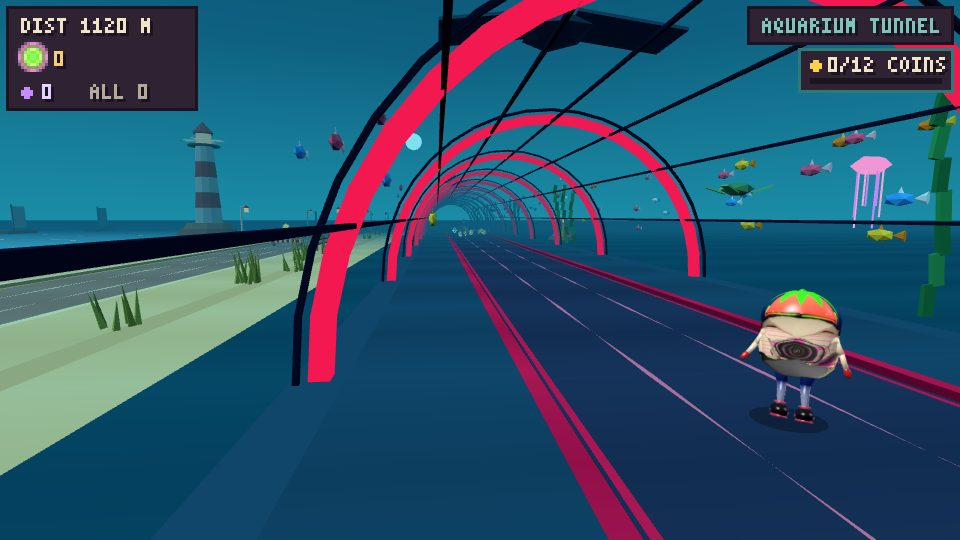
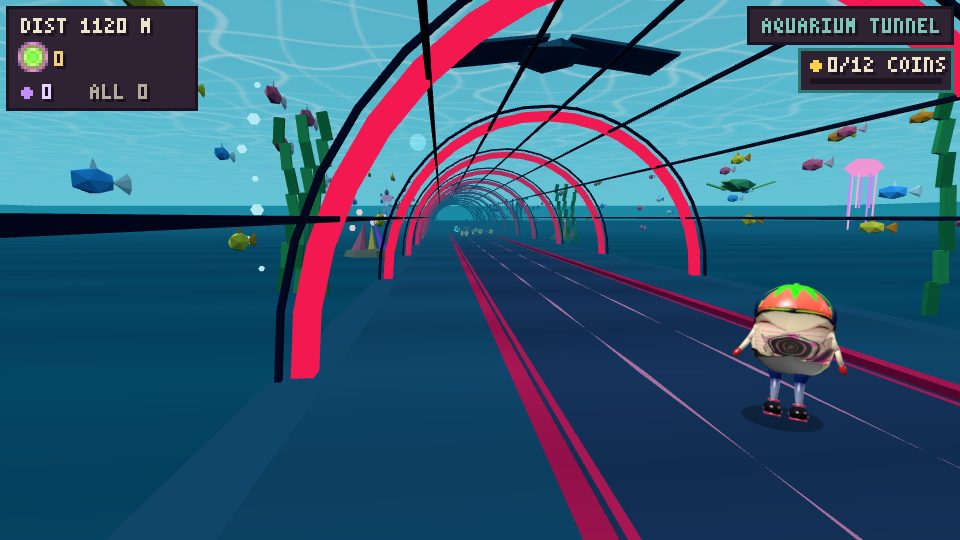
The aquarium tunnel dives below the level of the sea and of the land
- for a runner who took the tunnel the road dives 13 m over 200 m at the mouth, runs on the sea bed and comes back up over the last 200 m (World.dropAt/gradeAt, the descent system of Saint-Gilles; drawing only)
- under the sea the coast road and the land are not seen (Renderer3D hide, Road3D draws one road), water all round with plants and creatures on both sides
- the surface of the sea hangs above at the sea's own height: a caustic-lit ceiling that drifts, appears once above the camera
- manta and whale lowered under the surface; bigger pools for the aquarium props; tests (town 25, coins, avatar) and README

diff --git a/src3d/renderer3d.js b/src3d/renderer3d.js
@@ -49,6 +49,13 @@ class Renderer3D {
     ground.geometry = new THREE.PlaneGeometry(900, 450); ground.rotation.x = -Math.PI / 2; ground.position.set(0, 0, -225);
     this.groundPivot = new THREE.Group(); this.groundPivot.position.y = -0.03; this.groundPivot.add(ground); this.scene.add(this.groundPivot);
     const groundBack = new THREE.Mesh(new THREE.PlaneGeometry(900, 450), this.groundMat); groundBack.rotation.x = -Math.PI / 2; groundBack.position.set(0, -0.03, 225); this.scene.add(groundBack);
+    // the sea seen from under it (the aquarium tunnel dives below the level of the sea): its surface, a bright translucent ceiling that stays at the sea's own height while the road goes down (see draw)
+    { const cv = document.createElement('canvas'); cv.width = cv.height = 256; const c = cv.getContext('2d'); c.fillStyle = '#2fb0d2'; c.fillRect(0, 0, 256, 256); c.lineCap = 'round';        // the light of the surface: wavy bright lines in two directions (whole periods: the picture tiles)
+      for (let pass = 0; pass < 2; pass++) for (let k = 0; k < 7; k++) { c.strokeStyle = 'rgba(214,255,255,' + (0.35 + 0.1 * (k % 3)) + ')'; c.lineWidth = 2 + (k % 3); c.beginPath(); const base = 18 + k * 36, A = 7 + (k % 4) * 3, ph = k * 1.9 + pass, f = 1 + (k % 3);
+        for (let t = 0; t <= 256; t += 4) { const o = base + A * Math.sin(t / 256 * Math.PI * 2 * f + ph); if (pass) { t ? c.lineTo(o, t) : c.moveTo(o, t); } else { t ? c.lineTo(t, o) : c.moveTo(t, o); } } c.stroke(); }
+      const tex = new THREE.CanvasTexture(cv); tex.wrapS = tex.wrapT = THREE.RepeatWrapping; tex.repeat.set(24, 24); this.seaTex = tex;
+      this.seaTop = new THREE.Mesh(new THREE.PlaneGeometry(700, 700), new THREE.MeshBasicMaterial({ map: tex, transparent: true, opacity: 0.7, side: THREE.DoubleSide, depthWrite: false, fog: false })); }
+    this.seaTop.rotation.x = Math.PI / 2; this.seaTop.position.set(0, 20, -150); this.seaTop.visible = false; this.scene.add(this.seaTop);
     this._c = [new THREE.Color(), new THREE.Color(), new THREE.Color(), new THREE.Color(), new THREE.Color(), new THREE.Color()];   // scratch colours for blending
     this.atmoTo = ''; this.atmoQ = -1; this.atmoKey = ''; this.applyAtmosphere(this.baseId, 0);
 
@@ -71,7 +78,7 @@ class Renderer3D {
                   seaStrip: 36, cottageA: 24, cottageB: 24, cottageC: 24, cottageD: 24, seaFence: 70, tuft: 80, tuftBig: 50, driftwood: 30, dune: 30, cliff: 24, boat: 24, buoy: 40, crates: 30, lampSea: 40, lighthouse: 6, pier: 6, gateCoast: 8,   // the sunset coast
                   wallLow: 40, wallHigh: 40, wallLowB: 40, column: 60, columnLow: 60, columnTall: 20, archHalf: 24, lantern: 50, blocks: 40, ivy: 50, patchA: 40, patchB: 40, ruinTemple: 6, obelisk: 6, gateRuins: 8,   // the mossy ruins
                   garePlat: 20, stationFlankA: 12, stationFlankB: 12, platLamp: 20, gareHall: 3, tourMidi: 3,                  // the Gare du Midi
-                  coastClub: 6, coastDelphi: 6, portalGate: 14, coastCanal: 18, aquaRib: 18, aquaJelly: 10, aquaTurtle: 8, aquaWhale: 3, aquaShoal0: 16, aquaShoal1: 16, aquaShoal2: 16, aquaRay: 4, aquaKelp: 12, aquaCoral: 8, aquaBubbles: 8, coastTower0: 16, coastTower1: 16, coastTower2: 16, coastTower3: 16, coastRound: 6, coastPad: 4, coastParasol: 6, coastBike: 18, coastPark: 6, coastCourt: 4, coastPlay: 4,
+                  coastClub: 6, coastDelphi: 6, portalGate: 14, coastCanal: 18, aquaRib: 18, aquaJelly: 18, aquaTurtle: 14, aquaWhale: 4, aquaShoal0: 28, aquaShoal1: 28, aquaShoal2: 28, aquaRay: 6, aquaKelp: 28, aquaCoral: 22, aquaBubbles: 22, coastTower0: 16, coastTower1: 16, coastTower2: 16, coastTower3: 16, coastRound: 6, coastPad: 4, coastParasol: 6, coastBike: 18, coastPark: 6, coastCourt: 4, coastPlay: 4,
                   utQuayA: 30, utQuayB: 30, utQuayC: 30, utRowA: 16, utRowB: 16, utRowC: 16, utRowD: 16, utRowE: 16, utRowF: 16, utRowG: 16, utRowH: 16, utRowP1905: 10, utRowP1912: 10, utRowPChoor: 10, utRowPWhite: 10, utRowPShut: 10,   // Utrecht
                   utWetA: 14, utWetB: 14, utWetC: 14, utWetD: 14, utPlatane: 24, utPlataneB: 24, utBridge: 3, utDom: 3, utStationHall: 24, utPark: 24, utPlane: 30, utFootBridge: 4, utTunnel: 24,
                   neonHotel: 6, neonMoroccanLamp: 80, neonPendantLamp: 50, neonLanternPierced: 50, neonPillarLamp: 50, neonLightbox: 30 };                                                              // entrance markers where the biome changes
@@ -270,6 +277,9 @@ class Renderer3D {
     // descent: how far below the runner's level a point z (design units) lies (0 on flat road); the slope of the far ground follows the steepest slope seen from here to 150 m ahead
     const d0 = w.dropAt(p.z), dy = z => -(w.dropAt(z) - d0) * U.Z;
     this.groundPivot.rotation.x = -Math.atan(Math.max(w.gradeAt(p.z), w.gradeAt(p.z + 1500)));
+    // under the sea (inside the aquarium tunnel): the coast road beside it is not seen (hide = the side of the junction not drawn) and the surface of the sea hangs above, at the sea's own height
+    const hide = w.playerBand(p.z + 30, p.x).to === 'coastAqua' ? -1 : 0; this.road.hide = hide; this.hide = hide;
+    const sea = d0 * U.Z; this.seaTop.visible = !!hide && sea > 6; if (this.seaTop.visible) { this.seaTop.position.y = sea; this.seaTop.material.opacity = 0.7 * Math.min(1, (sea - 6) / 3); this.seaTex.offset.set(g.time * 0.012, g.time * 0.007); }      // (only once it is above the camera: before that the road is still near the surface)
     this.road.update(w, rz, Lref);
 
     // ---- scenery: slots of SEG_LEN, per road and side; the biome of each side is chosen by the blend at that spot
@@ -280,8 +290,9 @@ class Renderer3D {
     for (let i = i0; i <= i1; i++) {
       const zs = i * SL, sc = this.slotCache[((i % 20) + 20) % 20];
       if (sc.i !== i || sc.ver !== w.ver) { sc.i = i; sc.ver = w.ver; sc.mid = w.bandsAt((zs + SL / 2) / U.Z); sc.a = w.bandsAt(zs / U.Z); sc.b = w.bandsAt((zs + SL) / U.Z); }
-      const bands = sc.mid, two = bands.length > 1;
+      const bands = sc.mid, two = bands.length > 1 && !hide;
       for (let bi = 0; bi < bands.length; bi++) {
+        if (hide && bands[bi].side === hide) continue;
         const b = bands[bi], hwM = (b.hi - b.lo) / 2 * U.X;
         let c0 = null, c1 = null;
         for (let sg = -1; sg <= 1; sg += 2) {
@@ -336,7 +347,8 @@ class Renderer3D {
     for (const it of w.items) {
       const dz = it.z - p.z;
       if (it.taken || dz < -150 || dz > 1500) continue;         // design units: 15 m behind .. 150 m ahead
-      if (it.offV !== w.ver) { const bn = w.bandNear(it.z, it.x); it.off = bn.off; it.wet = bn.t > 0.5 && !!(this.envs[bn.to] && this.envs[bn.to].road.water); it.offV = w.ver; }   // road curve offset and water (a canal: hazards get their water look) at the item, cached until the track changes
+      if (it.offV !== w.ver) { const bn = w.bandNear(it.z, it.x); it.off = bn.off; it.sd = bn.side; it.wet = bn.t > 0.5 && !!(this.envs[bn.to] && this.envs[bn.to].road.water); it.offV = w.ver; }   // road curve offset and water (a canal: hazards get their water look) at the item, cached until the track changes
+      if (hide && it.sd === hide) continue;                      // (the other road of the junction is not seen from under the sea)
       const x = (it.x + it.off) * U.X - Lref, zr = -dz * U.Z;
       const iy = dy(it.z);                                     // on a descent the item sits on the sloping road
       if (it.kind === 'prop') { this.place(it.spr, x, WALK_Y + iy, zr, 0); continue; }

diff --git a/src3d/env_aqua.js b/src3d/env_aqua.js
@@ -24,8 +24,8 @@
     return Kit.merge(p);
   };
   // a manta ray gliding high above the tube: a dark flat body, two wings sloping down, a long thin tail, pale spots
-  const ray = () => Kit.merge([Kit.ico(1.3, 0, 10.5, 0, '#2d5876', { sx: 1.1, sy: 0.22, sz: 1.5 }), Kit.box(4.4, 0.12, 2.6, -2.6, 10.45, 0.3, '#2d5876', { rz: 0.12 }), Kit.box(4.4, 0.12, 2.6, 2.6, 10.45, 0.3, '#2d5876', { rz: -0.12 }),
-    Kit.cone(0.16, 5.5, 0, 10.5, 4.2, '#2d5876', { rx: Math.PI / 2, sx: 0.7 }), Kit.ico(0.22, -0.5, 10.7, -0.9, '#e8f6ff'), Kit.ico(0.22, 0.5, 10.7, -0.9, '#e8f6ff')]);
+  const ray = () => Kit.merge([Kit.ico(1.3, 0, 9.4, 0, '#2d5876', { sx: 1.1, sy: 0.22, sz: 1.5 }), Kit.box(4.4, 0.12, 2.6, -2.6, 9.35, 0.3, '#2d5876', { rz: 0.12 }), Kit.box(4.4, 0.12, 2.6, 2.6, 9.35, 0.3, '#2d5876', { rz: -0.12 }),
+    Kit.cone(0.16, 5.5, 0, 9.4, 4.2, '#2d5876', { rx: Math.PI / 2, sx: 0.7 }), Kit.ico(0.22, -0.5, 9.6, -0.9, '#e8f6ff'), Kit.ico(0.22, 0.5, 9.6, -0.9, '#e8f6ff')]);
   // kelp: tall green ribbons swaying (stacked leaning pieces); coral: branching cones in pink, orange and violet
   const kelp = () => { const p = []; for (let s = 0; s < 3; s++) for (let k = 0; k < 7; k++) p.push(Kit.box(0.34, 0.9, 0.12, s * 0.7 - 0.7 + Math.sin(k * 0.8 + s) * 0.25, k * 0.85, (s - 1) * 0.5, (s + k) % 2 ? '#2e9e5a' : '#1d7a46', { rz: Math.sin(k * 0.8 + s) * 0.18 })); return Kit.merge(p); };
   const coral = () => { const p = [Kit.cyl(1.5, 1.7, 0.4, 0, 0, 0, '#7a6a5a', { seg: 7 })]; ['#ff6a8a', '#ffb347', '#c05cff', '#ff6a8a'].forEach((c, k) => { const a = k * 1.7; p.push(Kit.cone(0.32, 1.5 + k * 0.35, Math.cos(a) * 0.7, 0.3, Math.sin(a) * 0.7, c, { seg: 5, rz: Math.cos(a) * 0.3, rx: Math.sin(a) * 0.3 }), Kit.ico(0.24, Math.cos(a) * 0.7 + Math.cos(a) * 0.4, 1.9 + k * 0.35, Math.sin(a) * 0.7 + Math.sin(a) * 0.4, '#ffe0e8', { glow: true })); }); return Kit.merge(p); };
@@ -39,27 +39,30 @@
     for (const [sx, sz] of [[-1, -0.7], [1, -0.7], [-1, 0.9], [1, 0.9]]) p.push(Kit.box(1.3, 0.1, 0.55, sx * 1.15, 4.3, sz, '#7bc46a', { rz: sx * 0.35, ry: sx * (sz < 0 ? 0.5 : -0.4) }));
     return Kit.merge(p); };
   // a whale shark gliding overhead, the great animal of an aquarium tunnel: a long slate body with pale spots, a dorsal fin and a tall tail
-  const whale = () => { const p = [Kit.ico(1.7, 0, 12, 0, '#3b5d7a', { sx: 1.0, sy: 0.85, sz: 4.4 }), Kit.ico(1.05, 0, 11.7, 0, '#9fc4d8', { sx: 0.9, sy: 0.5, sz: 4.2 }), Kit.cone(0.9, 2.2, 0, 13.3, 1.2, '#3b5d7a', { sx: 0.35 }), Kit.cone(1.0, 3.2, 0, 11.3, 7.7, '#3b5d7a', { rx: Math.PI / 2, sx: 0.3 }), Kit.cone(0.7, 1.6, -1.3, 11.3, -6.4, '#3b5d7a', { rz: 0.7 })];
-    for (let k = 0; k < 14; k++) { const r = q => rnd(k * 7, q); p.push(Kit.ico(0.17 + r(1) * 0.12, (r(2) - 0.5) * 2.2, 12.5 + r(3) * 0.9, (r(4) - 0.5) * 9, '#e8f6ff')); }
+  const whale = () => { const H = 10.3, p = [Kit.ico(1.7, 0, H, 0, '#3b5d7a', { sx: 1.0, sy: 0.85, sz: 4.4 }), Kit.ico(1.05, 0, H - 0.3, 0, '#9fc4d8', { sx: 0.9, sy: 0.5, sz: 4.2 }), Kit.cone(0.9, 2.2, 0, H + 1.3, 1.2, '#3b5d7a', { sx: 0.35 }), Kit.cone(1.0, 3.2, 0, H - 0.7, 7.7, '#3b5d7a', { rx: Math.PI / 2, sx: 0.3 }), Kit.cone(0.7, 1.6, -1.3, H - 0.7, -6.4, '#3b5d7a', { rz: 0.7 })];
+    for (let k = 0; k < 14; k++) { const r = q => rnd(k * 7, q); p.push(Kit.ico(0.17 + r(1) * 0.12, (r(2) - 0.5) * 2.2, H + 0.5 + r(3) * 0.9, (r(4) - 0.5) * 9, '#e8f6ff')); }
     return Kit.merge(p); };
   const PROPS = { aquaJelly: jelly, aquaTurtle: turtle, aquaWhale: whale, aquaRib: rib, aquaShoal0: shoal(0), aquaShoal1: shoal(1), aquaShoal2: shoal(2), aquaRay: ray, aquaKelp: kelp, aquaCoral: coral, aquaBubbles: bubbles };
   // every slot: a rib across the road (x = 0: it is drawn once, with the road's own lean); outside (the right side of the island road), kelp, coral, bubbles and a shoal of fish; on the inner side, towards the coast road, a few fish (nothing tall: the coast road's runner must not have it in the way)
   const layout = (i, rnd) => {
     const out = [{ prop: 'aquaRib', x: 0, dist: 6 }], k = i * 2 + 1, r = n => rnd(k, n);
-    out.push({ prop: 'aquaShoal' + mod(i, 3), x: 10 + r(1) * 10, dist: 6, live: true });
-    if (mod(i, 3) === 0) out.push({ prop: 'aquaKelp', x: 8.2 + r(2) * 2.5, dist: 2 + r(3) * 8 });
-    if (mod(i, 4) === 1) out.push({ prop: 'aquaCoral', x: 8.6 + r(4) * 2, dist: 3 + r(5) * 6 });
-    if (mod(i, 5) === 2) out.push({ prop: 'aquaBubbles', x: 9 + r(6) * 3, dist: 4 + r(7) * 4 });
     if (mod(i, 23) === 11) out.push({ prop: 'aquaWhale', x: 0, dist: 6, live: true });                                           // (the creatures drift a little: `live`, Renderer3D)
     else if (mod(i, 7) === 3) out.push({ prop: 'aquaRay', x: 0, dist: 6, live: true });
-    if (mod(i, 6) === 4) out.push({ prop: 'aquaJelly', x: 8.5 + r(8) * 9, dist: 3 + r(9) * 6, live: true });
-    if (mod(i, 9) === 5) out.push({ prop: 'aquaTurtle', x: 9 + r(10) * 7, dist: 6, live: true });
-    if (mod(i, 3) === 1) out.push({ prop: 'aquaShoal' + mod(i + 1, 3), x: -7.4, dist: 6, live: true });
+    // both sides: under the sea the other road of the junction is not seen (Renderer3D `hide`), so the water is all round; seen from the coast road (the other side of the junction) only the fish of the inner side are allowed
+    for (const sg of [1, -1]) {
+      const q = n => rnd(k + (sg < 0 ? 777 : 0), n), s = n => rnd(k + (sg < 0 ? 777 : 0), n + 20);
+      out.push({ prop: 'aquaShoal' + mod(i + (sg < 0 ? 1 : 0), 3), x: sg * (sg < 0 ? 7.4 + q(1) * 6 : 10 + q(1) * 10), dist: 6, live: true });
+      if (sg > 0 || mod(i, 4) === 2) { if (mod(i, 3) === (sg > 0 ? 0 : 1)) out.push({ prop: 'aquaKelp', x: sg * (8.2 + q(2) * 2.5), dist: 2 + q(3) * 8 }); }
+      if (mod(i, 4) === (sg > 0 ? 1 : 3)) out.push({ prop: 'aquaCoral', x: sg * (8.6 + q(4) * 2), dist: 3 + q(5) * 6 });
+      if (mod(i, 5) === (sg > 0 ? 2 : 4)) out.push({ prop: 'aquaBubbles', x: sg * (9 + q(6) * 3), dist: 4 + q(7) * 4 });
+      if (mod(i, 6) === (sg > 0 ? 4 : 1)) out.push({ prop: 'aquaJelly', x: sg * (8.5 + q(8) * 9), dist: 3 + q(9) * 6, live: true });
+      if (mod(i, 9) === (sg > 0 ? 5 : 8)) out.push({ prop: 'aquaTurtle', x: sg * (9 + q(10) * 7), dist: 6, live: true });
+    }
     return out;
   };
   // the sea seen from inside: a deep teal that swallows the distance (a short fog), light from above
   ENV3D.coastAqua = Object.assign({}, ENV3D.coastBlue, {
-    name: 'AQUARIUM TUNNEL', props: Object.assign({}, ENV3D.coastBlue.props, PROPS), layout, entrance: null, innerOk: new Set(['aquaShoal0', 'aquaShoal1', 'aquaShoal2']),
+    name: 'AQUARIUM TUNNEL', props: Object.assign({}, ENV3D.coastBlue.props, PROPS), layout, entrance: null, innerOk: new Set(['aquaShoal0', 'aquaShoal1', 'aquaShoal2', 'aquaJelly', 'aquaTurtle', 'aquaBubbles', 'aquaCoral']),
     sky: { top: '#06304f', mid: '#0c5a7c', horizon: '#1b8ca6' }, sunDisc: { color: '#7fe0f0', size: 2 }, sunPos: [-10, 40], sunGlow: 0, fog: { color: '#0d5a7a', near: 14, far: 100 },
     hemi: { sky: '#8fe6ff', ground: '#0a3a58', intensity: 1.7 }, sun: { color: '#c4f6ff', intensity: 1.8, position: [-3, 10, -4] }, groundFar: '#0a4c66',
     road: { asphalt: ['#27395c', '#223253'], mark: '#ff7aa0', edge: '#ff1a55', curb: ['#ff1a55', '#e0124a'], curbFace: '#9c0c38', walk: ['#1d4d6c', '#194560'], court: '#1d4d6c', verge: ['#0c4f68', '#0a4760'] },

diff --git a/tests/qa3d_town.js b/tests/qa3d_town.js
@@ -89,6 +89,29 @@ const res = []; const T = (n, ok, i = '') => { res.push(ok); console.log((ok ? '
   });
   T('the look under the sea starts and ends at the mouths of the tunnel: on the right road the atmosphere goes ' + AQ.right.seq + ' (the tunnel look ' + AQ.right.at.coastAqua + ' units after the junction line\'s end, the island ' + AQ.right.at.coastTown + '), with ' + AQ.right.splashes + ' splashes of light and never a dip back to the city look from the junction to the merge (lowest blend ' + AQ.right.minT + '); the coast road stays the coast (' + AQ.left.seq + ', ' + AQ.left.splashes + ' splashes); the HUD plate in the tunnel reads ' + AQ.env.label,
     /^coast>coastAqua>coastTown$/.test(AQ.right.seq) && Math.abs(AQ.right.at.coastAqua + 0) <= 45 && Math.abs(AQ.right.at.coastTown - 7000) <= 45 && AQ.right.splashes === 2 && AQ.right.minT >= 0.9 && AQ.left.seq === 'coast' && AQ.left.splashes === 0 && AQ.left.minT >= 0.9 && AQ.env.ok && AQ.env.label === 'AQUARIUM TUNNEL', JSON.stringify(AQ.right));
+  // ---- below the level of the sea and of the land: the road of the tunnel dives, runs on the sea bed and comes back up (World.dropAt: only for a runner who took it); under the sea the coast road is not seen and the surface hangs above
+  const DV = await pg.evaluate(() => {
+    const out = {}; const dip = choice => {
+      const w = new World(TRACK); w.extend(30000); const F = w.pieces.find(p => p.type === 'fork' && p.fork.tube); if (choice) F.choice = choice; const d = z => w.dropAt(z) - w.dropAt(F.fe - 100), tb = F.fork.tube; let maxSlope = 0, neg = 0, pos = 0;
+      for (let z = F.fe - 200; z < F.fe + tb.len + 200; z += 10) { const sl = (d(z + 10) - d(z)) / 10; maxSlope = Math.max(maxSlope, Math.abs(sl)); if (sl < -1e-6) neg++; if (sl > 1e-6) pos++; }
+      return { mouth: +d(F.fe + 1).toFixed(1), mid: +d(F.fe + 3500).toFixed(1), end: +d(F.fe + tb.len - 1).toFixed(1), after: +d(F.fe + tb.len + 200).toFixed(1), merge: +d(F.z1 + 500).toFixed(1), half: +d(F.fe + tb.ramp / 2).toFixed(1), maxSlope: +maxSlope.toFixed(3), neg, pos, gDown: +w.gradeAt(F.fe + 1000).toFixed(3), gUp: +w.gradeAt(F.fe + tb.len - 1000).toFixed(3), gMid: +w.gradeAt(F.fe + 3500).toFixed(3), depth: tb.depth, ramp: tb.ramp };
+    };
+    out.right = dip('right'); out.left = dip('left'); out.undecided = dip(null);
+    const g = __wf, r = g.r; r.renderer.render = () => {}; g.die = () => {};
+    const at = (side, u) => { g.start(); g.world.extend(30000); g.world.items = []; const F = g.world.pieces.find(p => p.type === 'fork' && p.fork.tube); g.world.commit(F, side); g.state = 'play'; g.p.z = F.fe + u; g.p.x = side === 'right' ? 2.4 : -2.4; g.p.speed = 300; g.world.extend(g.p.z); g.scene = null; g.fadeIn = 0;
+      const a = g.world.playerBand(g.p.z + 30, g.p.x); g.bgTo = a.to; g.bgT = a.t; for (let i = 0; i < 4; i++) { g.time += 1 / 60; r.draw(g); }
+      const E = r.road.edge; let two = 0; for (let i = 0; i < r.road.N; i++) two += E.two[i] ? 1 : 0;
+      const side2 = (n) => r.props[n].filter(o => o.visible), rv = side2('aquaRib'), rx = rv.length ? rv.reduce((a2, o) => a2 + o.position.x, 0) / rv.length : 0, left = ['aquaShoal0', 'aquaShoal1', 'aquaShoal2', 'aquaKelp', 'aquaCoral', 'aquaJelly', 'aquaTurtle', 'aquaBubbles'].reduce((n, k) => n + side2(k).filter(o => o.position.x < rx - 5).length, 0);      // (on the coast side of the road: x less than the ribs' centre line less 5 m)
+      return { sea: r.seaTop.visible, seaY: +r.seaTop.position.y.toFixed(1), hide: r.road.hide, two, ribs: r.propUsed.aquaRib, left, dropped: r.dropped, d0: +(g.world.dropAt(g.p.z) - g.world.dropAt(F.fe - 100)).toFixed(0), to: g.bgTo };
+    };
+    out.deep = at('right', 3500); out.ramp = at('right', 1100); out.shallow = at('right', 150); out.island = at('right', 7300); out.coastRoad = at('left', 3500);
+    return out;
+  });
+  const dvOk = D => D.mouth === 0 && D.mid === D.depth && D.end === 0 && D.after === 0 && D.merge === 0;
+  T('below the level of the sea and of the land: for a runner who took the tunnel the road dives ' + DV.right.depth / 10 + ' m over ' + DV.right.ramp / 10 + ' m from the mouth (0 at the mouth, ' + DV.right.half + ' units at half the ramp, ' + DV.right.mid + ' on the sea bed), comes back up over the last ' + DV.right.ramp / 10 + ' m and is level again on the island (' + DV.right.after + ', ' + DV.right.merge + ' after the merge); the slope stays gentle (max ' + DV.right.maxSlope + ', down ' + DV.right.gDown + ', flat ' + DV.right.gMid + ', up ' + DV.right.gUp + ' per unit of run); the coast road (left) and a junction not yet chosen do not move at all (' + DV.left.mid + ' / ' + DV.undecided.mid + ')',
+    dvOk(DV.right) && DV.right.depth === 130 && DV.right.ramp === 2000 && DV.right.half > 40 && DV.right.half < 90 && DV.right.maxSlope > 0.05 && DV.right.maxSlope < 0.12 && DV.right.neg > 100 && DV.right.pos > 100 && DV.right.gDown > 0.05 && DV.right.gUp < -0.05 && DV.right.gMid === 0 && ['mouth', 'mid', 'end', 'after', 'merge'].every(k => DV.left[k] === 0 && DV.undecided[k] === 0 && DV.left.maxSlope === 0), JSON.stringify([DV.right, DV.left]));
+  T('under the sea the coast road is not seen and the surface of the sea hangs above: in the tunnel the road is drawn as ONE road (' + DV.deep.two + ' two-road sections), the surface of the sea is at the sea\'s own height ' + DV.deep.seaY + ' m above the road (' + DV.deep.d0 + ' units down) with ' + DV.deep.left + ' creatures and plants on the coast side as well, ' + DV.deep.ribs + ' ribs; not yet above the camera near the mouth (' + DV.shallow.sea + '), on the ramp it rises (' + DV.ramp.seaY + ' m, shown: ' + DV.ramp.sea + '); gone on the island (' + DV.island.sea + ', two roads again: ' + DV.island.two + '), and a runner on the coast road sees the tunnel as it was (no surface: ' + DV.coastRoad.sea + ', hide ' + DV.coastRoad.hide + ')',
+    DV.deep.sea && DV.deep.hide === -1 && DV.deep.two === 0 && Math.abs(DV.deep.seaY - 13) < 0.2 && DV.deep.ribs >= 8 && DV.deep.left >= 3 && DV.deep.dropped === 0 && !DV.shallow.sea && DV.ramp.sea === DV.ramp.seaY > 6 && !DV.island.sea && DV.island.hide === 0 && DV.island.two > 0 && !DV.coastRoad.sea && DV.coastRoad.hide === 0 && DV.coastRoad.two > 0 && DV.deep.to === 'coastAqua', JSON.stringify([DV.deep, DV.ramp, DV.island, DV.coastRoad]));
   T('the aquarium environment is complete: a deep teal fog that swallows the distance (far ' + AQ.env.fogFar + ' m), its props (rib, three shoals, manta ray, kelp, coral, bubbles); a rib is a half ring ' + AQ.rib.w + ' m wide and ' + AQ.rib.h + ' m high of ' + AQ.rib.glow + ' pink-red unlit pieces, with the dark lines of the vault (' + AQ.rib.lit + ' triangles, ' + AQ.rib.lenZ + ' m along the road)',
     AQ.env.fogFar <= 120 && AQ.env.props && AQ.rib.w >= 13 && AQ.rib.w <= 15.5 && AQ.rib.h >= 6.5 && AQ.rib.glow >= 200 && AQ.rib.lit > 100 && AQ.rib.lenZ >= 11.5, JSON.stringify(AQ.rib));
 

diff --git a/src/track.js b/src/track.js
@@ -177,11 +177,11 @@ const TRACK = {
     gate4:  { zone: 440, branchLen: 1300, merge: 360, blend: 40, left: { route: 'neonBranch', sign: 'signNeon' }, right: { route: 'forest', sign: 'signForest' } },
     gate3B: { zone: 480, branchLen: 1500, merge: 380, blend: 40, left: { route: 'coastRunB', sign: 'signCoast' }, right: { route: 'neonBranchB', sign: 'signNeon' } },
     gate4B: { zone: 480, branchLen: 1500, merge: 380, blend: 40, left: { route: 'ruinsRunB', sign: 'signRuins' }, right: { route: 'detourB', sign: 'signMarket' } },
-    // the island junction, in the four lights (the passage to the island is optional: LEFT the coast goes on, RIGHT the way to the island, which goes UNDER THE SEA: `tube`, from the user's sketch of an aquarium-style trajectory: the right road keeps the coast's look (`pre`) while the two roads part, then runs 700 m through the glass tunnel (`biome`, ENV3D.coastAqua: long enough to play and enjoy it, about 25 s), then comes up on the 300 m island, the only place of the afro-Mediterranean music; `hold`: the beach look goes through the junction, it does not fade in)
-    gateIslandSunset: { zone: 480, branchLen: 10000, merge: 380, blend: 40, hold: true, tube: { pre: 'coast', biome: 'coastAqua', len: 7000 }, left: { route: 'coastWalkSunset', sign: 'signCoast' }, right: { route: 'islandSunset', sign: 'signIsland' } },
-    gateIslandMidday: { zone: 480, branchLen: 10000, merge: 380, blend: 40, hold: true, tube: { pre: 'coastNoon', biome: 'coastAqua', len: 7000 }, left: { route: 'coastWalkMidday', sign: 'signCoast' }, right: { route: 'islandMidday', sign: 'signIsland' } },
-    gateIslandBlue: { zone: 480, branchLen: 10000, merge: 380, blend: 40, hold: true, tube: { pre: 'coastBlue', biome: 'coastAqua', len: 7000 }, left: { route: 'coastWalkBlue', sign: 'signCoast' }, right: { route: 'islandBlue', sign: 'signIsland' } },
-    gateIslandMorning: { zone: 480, branchLen: 10000, merge: 380, blend: 40, hold: true, tube: { pre: 'coastMorning', biome: 'coastAqua', len: 7000 }, left: { route: 'coastWalkMorning', sign: 'signCoast' }, right: { route: 'islandMorning', sign: 'signIsland' } },
+    // the island junction, in the four lights (the passage to the island is optional: LEFT the coast goes on, RIGHT the way to the island, which goes UNDER THE SEA: `tube`, from the user's sketch of an aquarium-style trajectory: the right road keeps the coast's look (`pre`) while the two roads part, then runs 700 m through the glass tunnel (`biome`, ENV3D.coastAqua: long enough to play and enjoy it, about 25 s), BELOW THE LEVEL OF THE SEA AND OF THE LAND (for a runner who took it: the road dives `depth` 13 m over `ramp` 200 m at the mouth, runs on the sea bed and comes up again over the last 200 m, World.dropAt; the coast road is not seen from under the sea), then comes up on the 300 m island, the only place of the afro-Mediterranean music; `hold`: the beach look goes through the junction, it does not fade in)
+    gateIslandSunset: { zone: 480, branchLen: 10000, merge: 380, blend: 40, hold: true, tube: { pre: 'coast', biome: 'coastAqua', len: 7000, depth: 130, ramp: 2000 }, left: { route: 'coastWalkSunset', sign: 'signCoast' }, right: { route: 'islandSunset', sign: 'signIsland' } },
+    gateIslandMidday: { zone: 480, branchLen: 10000, merge: 380, blend: 40, hold: true, tube: { pre: 'coastNoon', biome: 'coastAqua', len: 7000, depth: 130, ramp: 2000 }, left: { route: 'coastWalkMidday', sign: 'signCoast' }, right: { route: 'islandMidday', sign: 'signIsland' } },
+    gateIslandBlue: { zone: 480, branchLen: 10000, merge: 380, blend: 40, hold: true, tube: { pre: 'coastBlue', biome: 'coastAqua', len: 7000, depth: 130, ramp: 2000 }, left: { route: 'coastWalkBlue', sign: 'signCoast' }, right: { route: 'islandBlue', sign: 'signIsland' } },
+    gateIslandMorning: { zone: 480, branchLen: 10000, merge: 380, blend: 40, hold: true, tube: { pre: 'coastMorning', biome: 'coastAqua', len: 7000, depth: 130, ramp: 2000 }, left: { route: 'coastWalkMorning', sign: 'signCoast' }, right: { route: 'islandMorning', sign: 'signIsland' } },
     // THE JUNCTIONS OF THE CIRCUIT. The coast and the neon quarter are zones of their own now (Neon > Beach > Saint-Gilles > Utrecht), so the pairs the junction of Saint-Gilles takes (picks.A) offer only the
     // detours that stay in its neighbourhood: forest, market, ruins. The pairs above that lead to the coast or the neon quarter (gate3, gate4, gate2, gate3B, gate4B) are no longer on the circuit.
     gate5: { zone: 440, branchLen: 1300, merge: 360, blend: 40, left: { route: 'ruinsRun', sign: 'signRuins' }, right: { route: 'detourB', sign: 'signMarket' } },

diff --git a/tests/qa3d_avatar.js b/tests/qa3d_avatar.js
@@ -53,7 +53,7 @@ const res = []; const T = (n, ok, i = '') => { res.push(ok); console.log((ok ? '
     play(1800); const tex2 = r.renderer.info.memory.textures;                              // a second 30 s: nothing new may appear
     return { state: g.state, tex: [tex1, tex2], kids: [kids0, r.scene.children.length], own: [own0, rn.pivot.children.length], sameCards: geoIds0 === ['back', 'side'].map(k => rn.cards[k].geometry.uuid).join() };   // (geometry counts also grow as new scenery is first drawn: that is the GPU upload of props, not the avatar)
   });
-  T('no leaks: the uploaded textures stop growing (<= 24: trees, the two avatar views, three neon atlases, the tram signs, the sun glow, the blossom tree, the board rear, the board trail gradient, the neon shop windows, the fourth neon set, the mixed flowers, the streak gradient of the dash, the Utrecht atlas, its brick paving and its water, the foam of the surfboard, the coast atlas, its neon name board, the dolphin sign of Club Delphi, the Stargate picture, the sunburst of the parasols), the 2 cards and the scene children stay constant over 60 s of play', L.state === 'play' && L.tex[0] >= 1 && L.tex[0] <= 24 && L.tex[0] === L.tex[1] && L.kids[0] === L.kids[1] && L.own[0] === 2 && L.own[1] === 2 && L.sameCards, JSON.stringify(L));
+  T('no leaks: the uploaded textures stop growing (<= 25: trees, the two avatar views, three neon atlases, the tram signs, the sun glow, the blossom tree, the board rear, the board trail gradient, the neon shop windows, the fourth neon set, the mixed flowers, the streak gradient of the dash, the Utrecht atlas, its brick paving and its water, the foam of the surfboard, the coast atlas, its neon name board, the dolphin sign of Club Delphi, the Stargate picture, the sunburst of the parasols, the light of the surface of the sea seen from the aquarium tunnel), the 2 cards and the scene children stay constant over 60 s of play', L.state === 'play' && L.tex[0] >= 1 && L.tex[0] <= 25 && L.tex[0] === L.tex[1] && L.kids[0] === L.kids[1] && L.own[0] === 2 && L.own[1] === 2 && L.sameCards, JSON.stringify(L));
   T('no JS errors in the default avatar session', pg.errs.length === 0, pg.errs.slice(0, 2).join('|'));
   await pg.context().close();                                   // close it: a page left running keeps drawing and slows every page opened after it (software GL)
 

diff --git a/src/world.js b/src/world.js
@@ -183,13 +183,20 @@ class World {
   dropAt(z) {
     let d = 0;
     for (const P of this.pieces) {
+      if (P.type === 'fork') { if (P.fork.tube && P.choice === 'right') d += this.tubeDip(P, z); continue; }                  // the way to the island: a runner who took it dives below the sea (and comes back up)
       if (P.type !== 'seg' || !P.seg.grade || z <= P.z0) continue;
       const tab = P.dropTab || (P.dropTab = this.dropTable(P)), k = (Math.min(z, P.z1) - P.z0) / 20, i = Math.min(tab.length - 2, Math.floor(k));
       d += P.seg.grade * (tab[i] + (tab[i + 1] - tab[i]) * (k - i));
     }
     return d;
   }
-  gradeAt(z) { const P = this.pieceAt(z); return P.type === 'seg' && P.seg.grade ? P.seg.grade * this.gradeT(P, z) : 0; }
+  gradeAt(z) { const P = this.pieceAt(z); if (P.type === 'fork') return P.fork.tube && P.choice === 'right' ? (this.tubeDip(P, z + 10) - this.tubeDip(P, z - 10)) / 20 : 0; return P.type === 'seg' && P.seg.grade ? P.seg.grade * this.gradeT(P, z) : 0; }
+  // the fall (units of run) of the aquarium tunnel's road at z: 0 at its two mouths, `depth` on the sea bed between, smooth ramps of `ramp` units (a fork piece with `tube`, see src/track.js)
+  tubeDip(P, z) {
+    const tb = P.fork.tube, u = z - P.fe; if (u <= 0 || u >= tb.len) return 0;
+    const s = v => { v = clamp(v, 0, 1); return v * v * (3 - 2 * v); };
+    return tb.depth * Math.min(s(u / tb.ramp), s((tb.len - u) / tb.ramp));
+  }
   dropTable(P) {                                        // running integral of the blend every 20 units (trapezoids)
     const n = Math.ceil((P.z1 - P.z0) / 20) + 2, tab = new Float32Array(n); let prev = this.gradeT(P, P.z0);
     for (let j = 1; j < n; j++) { const t = this.gradeT(P, Math.min(P.z1, P.z0 + j * 20)); tab[j] = tab[j - 1] + 20 * (prev + t) / 2; prev = t; }

diff --git a/tests/qa3d_coins.js b/tests/qa3d_coins.js
@@ -35,7 +35,7 @@ const res = []; const T = (n, ok, i = '') => { res.push(ok); console.log((ok ? '
       add(dz, x, h, tag) { const it = { kind: 'coin', z: g.p.z + dz, x, h: h === undefined ? 12 : h, tag: tag || 'main' }; g.world.items.push(it); return it; },
       // every visible mesh that uses the coin geometry, wherever it sits in the scene (pooled coins AND any effect that reuses the coin)
       coinMeshes() { const out = []; r.scene.traverse(o => { if (o.isMesh && (o.geometry === coinLit || o.geometry === coinGlow) && visible(o)) { const p = new THREE.Vector3(); (o.parent || o).getWorldPosition(p); out.push({ lit: o.geometry === coinLit, x: p.x, y: p.y, z: p.z }); } }); return out; },
-      untakenInRange() { let n = 0; for (const it of g.world.items) { const dz = it.z - g.p.z; if (it.kind === 'coin' && !it.taken && dz >= -150 && dz <= 1500) n++; } return n; },
+      untakenInRange() { let n = 0; for (const it of g.world.items) { const dz = it.z - g.p.z; if (it.kind === 'coin' && !it.taken && dz >= -150 && dz <= 1500 && !(g.r.hide && it.sd === g.r.hide)) n++; } return n; },      // (the other road of a junction is not drawn from inside the aquarium tunnel: Renderer3D `hide`)
       // where the renderer would draw this coin right now (scene metres, runner at z = 0)
       sceneSpot(it) { const U = U3, Lref = (g.camX + g.camOff) * U.X, off = g.world.bandNear(it.z, it.x).off; return { x: (it.x + off) * U.X - Lref, y: it.h * U.Y, z: -(it.z - g.p.z) * U.Z }; },
       // one frame: advance, draw, then check the invariant; returns what was found

diff --git a/src3d/road3d.js b/src3d/road3d.js
@@ -70,7 +70,8 @@ class Road3D {
       const n = n0 + i, zm = n * DS, sz = rzm - zm, par = n & 1, dash = !par;
       const slot = this.bc[((n % N) + N) % N];
       if (slot.n !== n || slot.ver !== w.ver) { slot.n = n; slot.ver = w.ver; slot.bands = w.bandsAt(zm / U3.Z); }   // bands per section: computed once per section, not per frame
-      const bands = slot.bands, bA = bands[0], bB = bands.length > 1 ? bands[1] : null;
+      const bands = slot.bands; let bA = bands[0], bB = bands.length > 1 ? bands[1] : null;
+      if (bB && this.hide) { if (bA.side === this.hide) bA = bB; bB = null; }                     // `hide` (-1 / 1): that road of a junction is not drawn (from inside the tunnel under the sea the coast road is not seen): the other one is drawn as a single road
       const loA = (bA.lo + bA.off) * X - Lref, hiA = (bA.hi + bA.off) * X - Lref;
       let palA = this.pal(bA.to, bA.t);
       E.z[i] = sz; E.two[i] = bB ? 1 : 0;

diff --git a/README.md b/README.md
@@ -67,9 +67,11 @@ A third set of 17 pictures (`src3d/neon_assets3.js`, one alpha atlas) adds 17 mo
 
 **The coastal town, a small island next to the coast (an optional half of the beach zone, from your painting and your sunburst).** From your painting of a seaside town: **tall painted towers** along the land side (yellow with a red outline, red with a navy one and two magenta neon strips, a tall blue one with warm windows and a cyan strip, a peach one with navy windows: bold outlines, arched cream window columns, `src3d/env_town.js`), **flower roundabouts** with your flowers (the ring of patches of your tree beds, widened) under a giant parasol, a turquoise **landing pad** where a dark **flying saucer** hovers (a dark lens with a dome and a neon underside, `src3d/saucer3d.js`) and takes off, tilting, up and out over the sea, when the runner is within 75 m (it stays gone). The sea side is the coast's own. **The long buildings are separate from the chalets**: the cottages of the beach (the chalets) stand only in the coastal piece, the towers and the two clubs only in the town, and the town is the RIGHT road of the island junction that follows the coastal piece, in the same light (`gateIslandSunset` / `Midday` / `Blue` / `Morning`, `pickForks.E`; the left road, `coastWalk*`, is the coast going on with its chalets). The island is 300 m long; **the sea is all round it** (a sea strip behind the towers and a narrow canal between it and the coast road, `coastCanal`), and its sights come on a beat of twelve slots, so every 17 slots hold a Club Delphi, a Strawberry Beach Club, a roundabout, a pad and the green spaces. The junction holds the look of the coast (`hold: true` in the fork), so nothing dips back to the city look and there is no door in the beach zone: the door out stands 5 m after the two roads have merged. The passage to the island is optional: the signposts are the COAST (a sun over waves) and the ISLAND (a painted tower over the water, `signIsland`).
 
-**The aquarium tunnel (the way to the island, from your sketch).** "Trajectory aquarium style, under the sea, toward the island": the right road keeps the coast look while the two roads part, then runs **700 m (about 25 s) through a glass tunnel under the sea**, long enough to play and spend a good moment in it, (`tube` in the fork, the biome `coastAqua`, `src3d/env_aqua.js`) held by **thick half-ring ribs in the pink-red of the Stargate rings**, with thin dark lines along the vault, as in your drawing; outside, deep teal water that swallows the distance (a short fog), **shoals of fish**, a **manta ray** and a **whale shark** gliding overhead, **jellyfish**, **sea turtles**, kelp, coral and columns of bubbles (the creatures drift a little). The two roads of the junction are each 1 km long (the coast road goes on beside the tunnel); the island's own music (the afro Mediterraneo) starts from its beginning as the runner comes up out of the tunnel. The look changes at once at the two mouths (`BIOMES.coastAqua.swap`, `Game.step`: no dip back to the city look), under a splash of light and rising bubbles (`Game.splash`, `Renderer.drawSplash`), and the HUD plate reads AQUARIUM TUNNEL inside it. The coast road beside it stays the coast.
+**The aquarium tunnel (the way to the island, from your sketch).** "Trajectory aquarium style, under the sea, toward the island": the right road keeps the coast look while the two roads part, then runs **700 m (about 25 s) through a glass tunnel under the sea**, long enough to play and spend a good moment in it, (`tube` in the fork, the biome `coastAqua`, `src3d/env_aqua.js`) held by **thick half-ring ribs in the pink-red of the Stargate rings**, with thin dark lines along the vault, as in your drawing; outside, deep teal water that swallows the distance (a short fog), **shoals of fish**, a **manta ray** and a **whale shark** gliding overhead, **jellyfish**, **sea turtles**, kelp, coral and columns of bubbles (the creatures drift a little). The two roads of the junction are each 1 km long (the coast road goes on beside the tunnel); the island's own music (the afro Mediterraneo) starts from its beginning as the runner comes up out of the tunnel. The look changes at once at the two mouths (`BIOMES.coastAqua.swap`, `Game.step`: no dip back to the city look), under a splash of light and rising bubbles (`Game.splash`, `Renderer.drawSplash`), and the HUD plate reads AQUARIUM TUNNEL inside it. The coast road beside it stays the coast for a runner who took the coast road. **Below the level of the sea and of the land:** for a runner who took the tunnel, the road **dives 13 m over 200 m** at the mouth (`tube.depth` / `tube.ramp`, `World.dropAt` / `gradeAt`, the same descent system as the street of Saint-Gilles: drawing only, gameplay stays flat), runs on the sea bed and comes back up over the last 200 m to be level again on the island; under the sea **the coast road and the land are not seen** (`Renderer3D` `hide`: the road is drawn as one, the water is all round, kelp, coral and fish on both sides) and **the surface of the sea hangs above** at the sea's own height (a bright ceiling with the wavy light of the surface drifting across it, `seaTop`).
 
 ![the aquarium tunnel under the sea](docs/screenshots/coast-tunnel.jpg)
+
+![the road dives below the sea at the mouth of the tunnel](docs/screenshots/coast-tunnel-dive.jpg)
 
 ![the island of the coastal town](docs/screenshots/coast-island.jpg) **Your red and cream sunburst** is the canopy of the **giant beach parasols** (`src3d/parasol_assets.js` made by `tools/make_parasol_assets.py`: cropped to the square round the centre of the rays and scaled, nothing else; wound on a cone seen from above so the rays run down it like the ribs of a parasol, `src3d/parasol_art.js`): one every 13th slot on the beach and over each roundabout. `tests/qa3d_town.js` checks the order and the lights, the hand-over, the separation, the picture, the towers, the roundabouts, the pad, the saucer, the pools and the 2D game.
 
